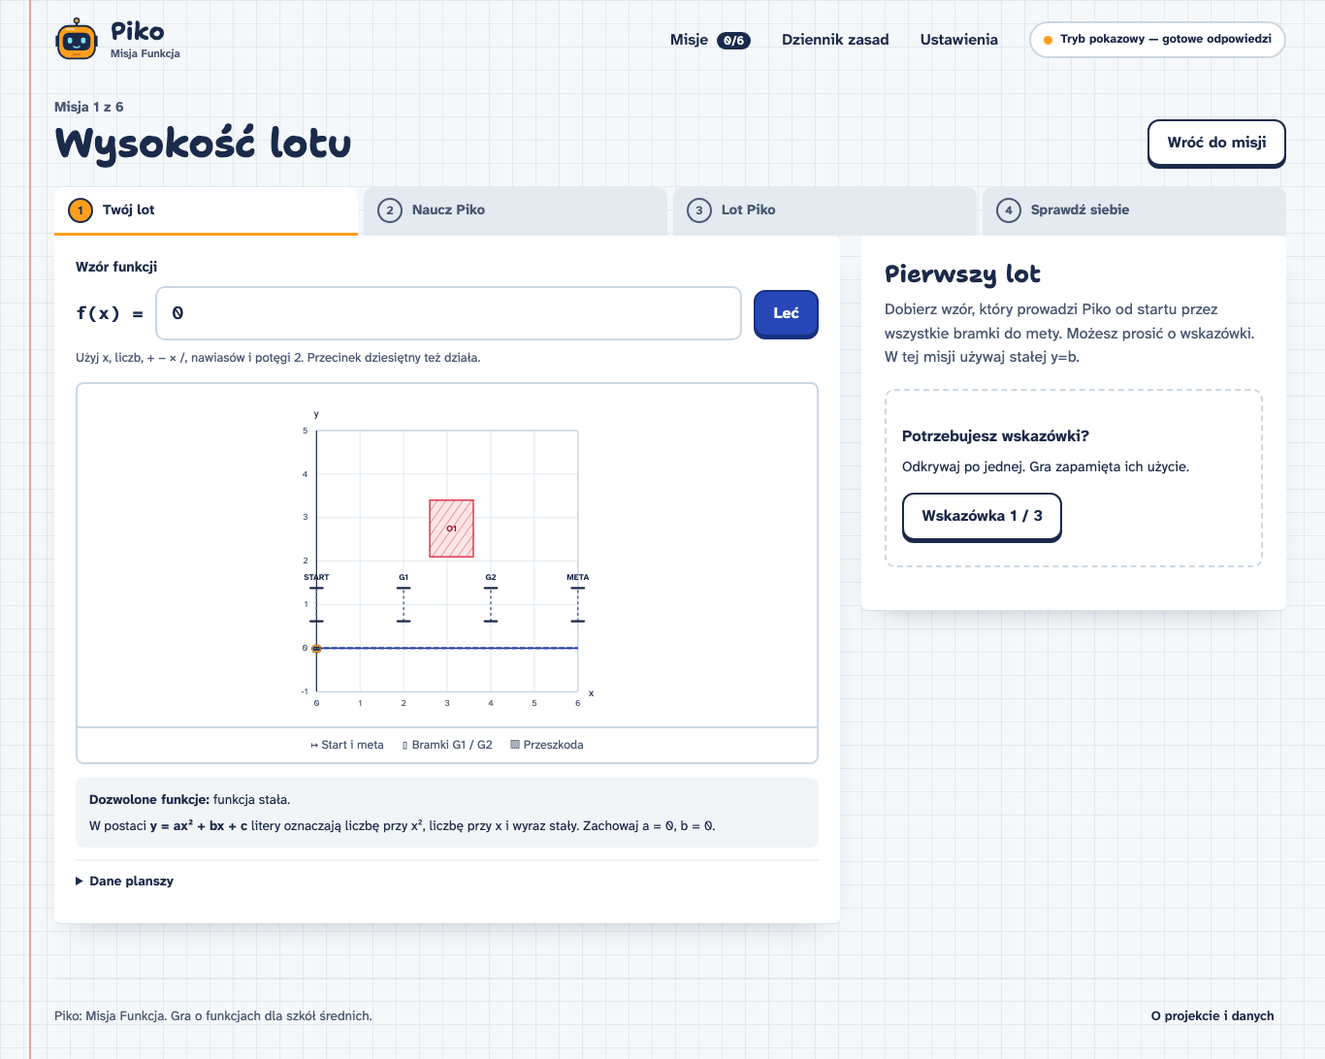
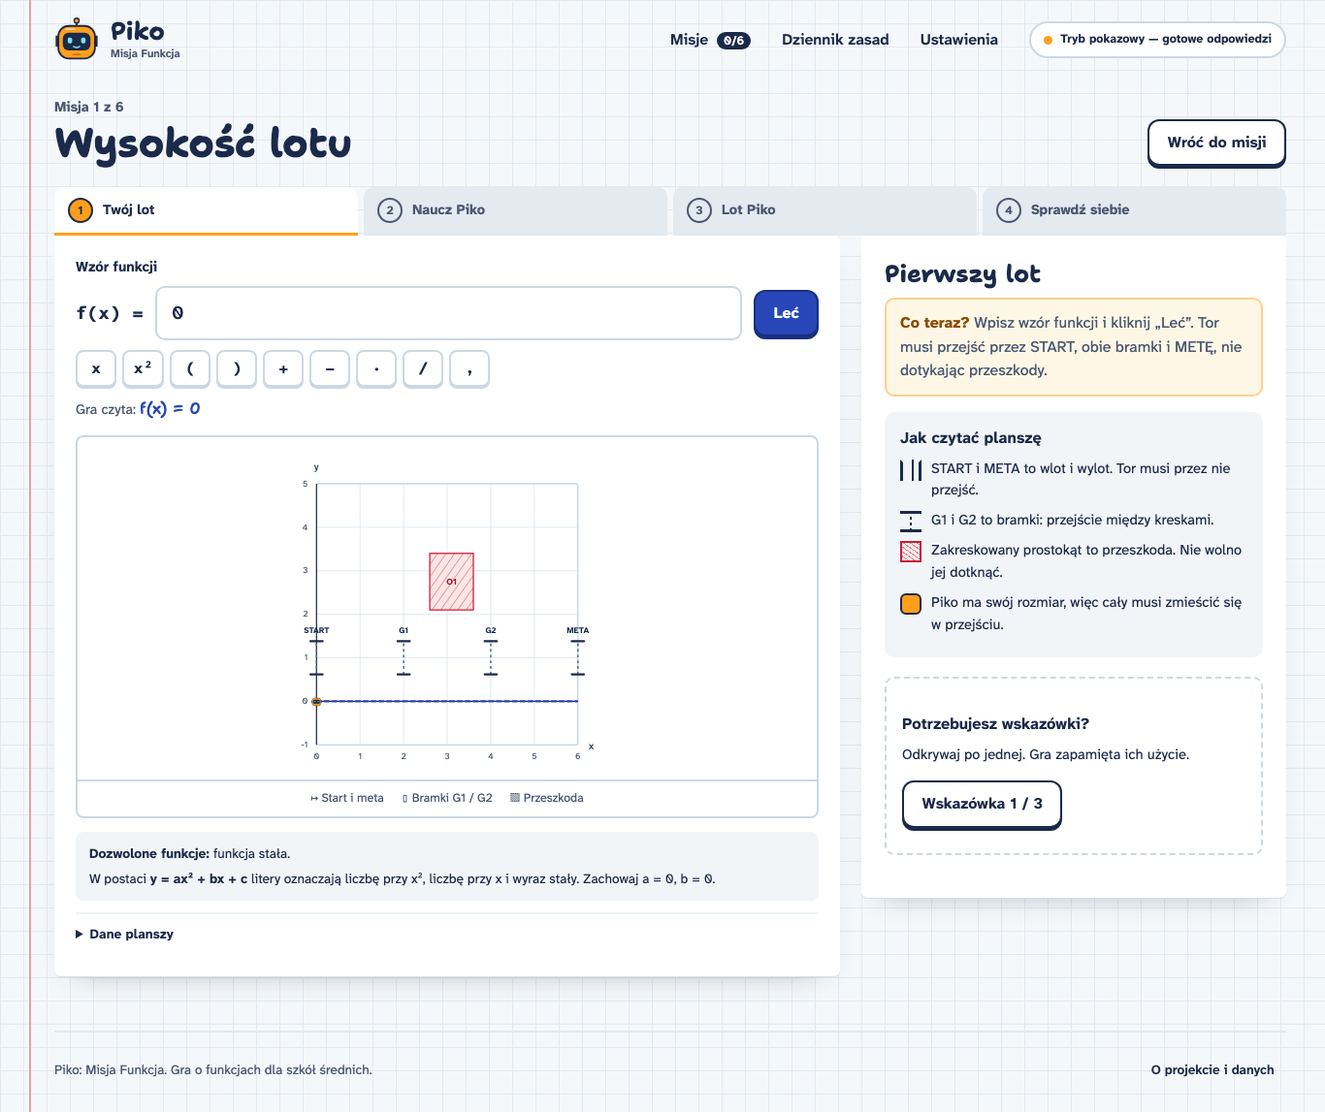
Guide the player step by step and simplify the lesson step
- 'Co teraz?' box computes the next action from game state
- checklist of tasks in 'Naucz Piko'; predictions sit next to 'Sprawdź naprawę'
- board legend for a first-time player in mission 1
- formula keys (x, x², brackets, operators) and a notebook-style preview
- explicit prompt to answer Piko's follow-up question
- unit tests for the guidance logic

diff --git a/apps/web/src/App.tsx b/apps/web/src/App.tsx
@@ -5,9 +5,11 @@ import type {LearnerRequest} from '@piko/contracts';
 import {Board} from './Board';
 import {Piko} from './Piko';
 import {HeroSheet,MissionSketch} from './Sketches';
+import {nextStep,prettyFormula,teachChecklist} from './guidance';
 import {canOpenPage,hasIndependentAttempt,rulesForAiTurn,visibleJournalRules} from './review';
 import {clearConversation,getStatus,sendTurn,setAccessCode,startSession} from './transport';
 import {backupSave,canAskRobot,hasCompleted,loadState,numericEvidence,persistState,reducer,removeSave,roles,roleLabels,type Attempt,type GameState,type LessonReply,type Run} from './state';
+const formulaKeys:[string,string][]=[['x','x'],['x²','x^2'],['(','('],[')',')'],['+','+'],['−','-'],['·','*'],['/','/'],[',',',']];
 const modeText={demo:'Tryb pokazowy — gotowe odpowiedzi',live:'Prawdziwe AI — Claude',unavailable:'AI niedostępne — brak odpowiedzi'};
 const familyName={constant:'funkcja stała',linear:'funkcja liniowa',quadratic:'funkcja kwadratowa'};
 const coefficientName={c2:'a',c1:'b',c0:'c'};
@@ -80,7 +82,7 @@ export function App(){
  const [s,dispatch]=useReducer(reducer,undefined,()=>loadState());
  const [saveError,setSaveError]=useState<string|null>(null),[systemReduced,setSystemReduced]=useState(false),[confirmReset,setConfirmReset]=useState(false);
  const [accessInput,setAccessInput]=useState(''),[accessFeedback,setAccessFeedback]=useState(''),[checkingAccess,setCheckingAccess]=useState(false);
- const heading=useRef<HTMLHeadingElement>(null),abort=useRef<AbortController|null>(null);
+ const heading=useRef<HTMLHeadingElement>(null),abort=useRef<AbortController|null>(null),exprRef=useRef<HTMLInputElement>(null);
  const m=missionById(s.missionId),r=s.runs[s.missionId],role=r.role,scene=m.scenes[role];
  const last=r.attempts[role]?.at(-1),blind=role==='human_check'&&!hasIndependentAttempt(s,m.id);
  const currentResult:EngineResult|null=last?.expression===r.drafts[role]?last.result:null;
@@ -90,6 +92,11 @@ export function App(){
  useEffect(()=>{heading.current?.focus();},[s.page,s.missionId,r.role]);
  useEffect(()=>{if(!s.busy)abort.current?.abort();},[s.viewRevision,s.busy]);
  useEffect(()=>{const handler=(e:KeyboardEvent)=>{if(e.key==='Escape'&&['journal','settings','about'].includes(s.page))dispatch({type:'OPEN',page:'game'});};window.addEventListener('keydown',handler);return()=>window.removeEventListener('keydown',handler);},[s.page]);
+ function insertIntoFormula(text:string){
+  const el=exprRef.current,value=r.drafts[role],start=el?.selectionStart??value.length,end=el?.selectionEnd??value.length;
+  dispatch({type:'EDIT',field:'expression',value:value.slice(0,start)+text+value.slice(end)});
+  requestAnimationFrame(()=>{el?.focus();el?.setSelectionRange(start+text.length,start+text.length);});
+ }
  async function askPiko(){
   if(s.busy||(abort.current&&!abort.current.signal.aborted)||(role==='teach'&&!r.explanation.trim())||(role==='robot_transfer'&&!canAskRobot(s,r)))return;
   if(role!=='teach'&&role!=='robot_transfer')return;
@@ -192,7 +199,11 @@ export function App(){
  </>}
  {s.page==='game'&&<><div className="mission-heading"><div><p className="mission-number">Misja {m.order} z 6</p><h1 ref={heading} tabIndex={-1}>{m.title}</h1></div><button className="secondary" onClick={()=>go('missions')}>Wróć do misji</button></div><ol className="phase-list">{roles.map((step,i)=><li key={step} aria-current={role===step?'step':undefined} className={role===step?'active':roles.indexOf(role)>i?'done':''}><span>{roles.indexOf(role)>i?'✓':i+1}</span>{roleLabels[step]}</li>)}</ol>
  <div className="game-grid"><section className="flight sheet" aria-label={roleLabels[role]}>
- {role!=='robot_transfer'&&<form className="expression-form" onSubmit={e=>{e.preventDefault();dispatch({type:'CHECK'});}}>{role==='teach'&&<h3>1. Popraw wzór Piko</h3>}<label htmlFor="expression">{role==='teach'?'Twój poprawiony wzór':'Wzór funkcji'}</label><div className="expression-row"><span>f(x) =</span><input id="expression" data-testid="expression" value={r.drafts[role]} maxLength={120} autoComplete="off" spellCheck={false} onChange={e=>dispatch({type:'EDIT',field:'expression',value:e.target.value})}/><button disabled={s.busy}>{role==='human_check'?'Sprawdź mój lot':role==='teach'?'Sprawdź naprawę':'Leć'}</button></div><p className="muted">Użyj x, liczb, + − × /, nawiasów i potęgi 2. Przecinek dziesiętny też działa.</p></form>}
+ {role!=='robot_transfer'&&<form className="expression-form" onSubmit={e=>{e.preventDefault();dispatch({type:'CHECK'});}}>{role==='teach'&&<h3>1. Popraw wzór Piko i przewidź wysokość</h3>}<label htmlFor="expression">{role==='teach'?'Twój poprawiony wzór':'Wzór funkcji'}</label><div className="expression-row"><span>f(x) =</span><input ref={exprRef} id="expression" data-testid="expression" value={r.drafts[role]} maxLength={120} autoComplete="off" spellCheck={false} onChange={e=>dispatch({type:'EDIT',field:'expression',value:e.target.value})}/><button disabled={s.busy}>{role==='human_check'?'Sprawdź mój lot':role==='teach'?'Sprawdź naprawę':'Leć'}</button></div><div className="formula-keys" role="group" aria-label="Wstaw do wzoru">{formulaKeys.map(([label,text])=><button type="button" key={label} className="key" aria-label={`Wstaw ${label}`} onClick={()=>insertIntoFormula(text)}>{label}</button>)}</div>
+ {r.drafts[role].trim()&&<p className="formula-preview">Gra czyta: <span>f(x) = {prettyFormula(r.drafts[role])}</span></p>}
+ {role==='teach'&&<div className="predictions">{scene.gates.map((g,i)=><label key={g.id} htmlFor={`prediction${i}`}>{g.id} (x = {g.x}): przewiduję y =<input id={`prediction${i}`} inputMode="decimal" value={r.predictions[i]} onChange={e=>dispatch({type:'EDIT',field:i===0?'prediction0':'prediction1',value:e.target.value})}/></label>)}</div>}
+ {role==='teach'&&r.repairChecked&&<p className={canRule||deriveRuleEvidence(m,r.drafts.teach,numericEvidence(s))?'notice ok':'notice'}>{r.numericFeedback}</p>}
+ </form>}
  <Board scene={scene} expression={role==='robot_transfer'?(r.robotChecked?r.robot?.learner?.proposedExpression??'':''):r.drafts[role]} showPath={!blind&&(role!=='robot_transfer'||r.robotChecked)} result={role==='robot_transfer'?r.robotChecked?r.attempts.robot_transfer?.at(-1)?.result??null:null:currentResult} flightId={last?.id} reduced={reduced} hitbox={s.settings.hitbox}/>
  <div className="constraints">
   <strong>Dozwolone funkcje:</strong> {scene.allowedFamilies.map(f=>familyName[f]).join(', ')}.
@@ -204,10 +215,18 @@ export function App(){
  </div>
  <div aria-live="polite" className="feedback">{s.error&&<p className="error" role="alert">! {s.error}</p>}{last&&!blind&&(role!=='robot_transfer'||r.robotChecked)&&<FlightResult attempt={last} robotStart={role==='robot_transfer'?scene.start:undefined}/>}{blind&&<p className="notice">Nowa plansza, teraz bez podpowiedzi. Tor zobaczysz po zatwierdzeniu wzoru. Błąd składni nie zużywa pierwszej próby.</p>}</div>
  <details className="board-data"><summary>Dane planszy</summary><p>Granice: x od {scene.domain.xMin} do {scene.domain.xMax}; y od {scene.domain.yMin} do {scene.domain.yMax}. Bok Piko: 0,24. Cały robot musi mieścić się w przejściu.</p><ul>{[{id:'Start',...scene.start},...scene.gates,{id:'Cel',...scene.goal}].map(g=><li key={g.id}>{g.id}: x={g.x}, dozwolone y od {g.yMin} do {g.yMax}</li>)}{scene.obstacles.map(o=><li key={o.id}>Przeszkoda {o.id}: x od {o.xMin} do {o.xMax}; y od {o.yMin} do {o.yMax}</li>)}</ul></details>
- </section><aside className="side sheet"><h2>{scene.title}</h2><p>{scene.instruction}</p>
+ </section><aside className="side sheet"><h2>{scene.title}</h2>
+ <p className="next-step" aria-live="polite"><strong>Co teraz? </strong>{nextStep(s,r)}</p>
+ {role==='teach'&&<ol className="checklist" aria-label="Zadania w tym kroku">{teachChecklist(s,r).map(item=><li key={item.label} className={item.done?'done':''}><span aria-hidden="true">{item.done?'✓':''}</span>{item.label}{item.done&&<span className="sr-only"> (zrobione)</span>}</li>)}</ol>}
+ {role==='practice'&&m.order===1&&!(r.attempts.practice??[]).some(a=>a.result.ok)&&<div className="legend-intro"><h3>Jak czytać planszę</h3><ul>
+  <li><b className="lg-portal" aria-hidden="true"/>START i META to wlot i wylot. Tor musi przez nie przejść.</li>
+  <li><b className="lg-gate" aria-hidden="true"/>G1 i G2 to bramki: przejście między kreskami.</li>
+  <li><b className="lg-obstacle" aria-hidden="true"/>Zakreskowany prostokąt to przeszkoda. Nie wolno jej dotknąć.</li>
+  <li><b className="lg-piko" aria-hidden="true"/>Piko ma swój rozmiar, więc cały musi zmieścić się w przejściu.</li>
+ </ul></div>}
  {role==='practice'&&<><div className="hint-box"><h3>Potrzebujesz wskazówki?</h3><p>Odkrywaj po jednej. Gra zapamięta ich użycie.</p>{hints.missions.find(h=>h.missionId===m.id)?.hints.slice(0,r.hintCount).map(h=><div key={h.level}><strong>{h.level}. {h.titlePL}</strong><p>{h.textPL}</p></div>)}{r.hintCount<3&&<button className="secondary" onClick={()=>dispatch({type:'HINT'})}>Wskazówka {r.hintCount+1} / 3</button>}</div>{last?.result.ok&&<button onClick={()=>dispatch({type:'NEXT'})}>Teraz naucz Piko</button>}</>}
- {role==='teach'&&<><div className="piko-says"><Piko/><div className="bubble"><small>Pomysł Piko (przygotowany)</small><p>{m.scriptedRobotUtterance}</p><code>f(x) = {scene.initialExpression}</code><button className="secondary" onClick={()=>dispatch({type:'CHECK_SCRIPT'})}>Sprawdź pomysł Piko</button></div></div><h3>2. Przewidź wartości w bramkach</h3><p className="muted">Po wpisaniu obu wartości kliknij „Sprawdź naprawę” obok wzoru.</p><div className="predictions">{scene.gates.map((g,i)=><label key={g.id} htmlFor={`prediction${i}`}>{g.id} (x = {g.x}): przewiduję y =<input id={`prediction${i}`} inputMode="decimal" value={r.predictions[i]} onChange={e=>dispatch({type:'EDIT',field:i===0?'prediction0':'prediction1',value:e.target.value})}/></label>)}</div><h3>3. Wyjaśnij zmianę Piko</h3><label htmlFor="explanation">Co Piko powinien zmienić i dlaczego?</label><textarea id="explanation" value={r.explanation} maxLength={600} rows={3} onChange={e=>dispatch({type:'EDIT',field:'explanation',value:e.target.value})}/><p className="muted">Wystarczy jedno lub dwa zdania. {r.explanation.length}/600</p>{s.mode==='live'&&<p className="privacy">Twoje wyjaśnienie trafi do AI. Nie wpisuj danych osobowych.</p>}<button className="secondary" disabled={s.busy||!r.explanation.trim()} onClick={()=>void askPiko()}>Powiedz Piko</button>{conversation}{!r.explanation.trim()&&<p className="muted">Najpierw wpisz własną próbę wyjaśnienia.</p>}{r.repairChecked&&<p className="notice">{r.numericFeedback}</p>}{canRule&&<div className="rule-card note-card">
-  <h3>4. Zapisz notatkę dla Piko</h3>
+ {role==='teach'&&<><div className="piko-says"><Piko/><div className="bubble"><small>Pomysł Piko (przygotowany)</small><p>{m.scriptedRobotUtterance}</p><code>f(x) = {scene.initialExpression}</code><button className="secondary" onClick={()=>dispatch({type:'CHECK_SCRIPT'})}>Sprawdź pomysł Piko</button></div></div><h3>2. Wyjaśnij Piko zasadę</h3><label htmlFor="explanation">Co Piko powinien zmienić i dlaczego?</label><textarea id="explanation" value={r.explanation} maxLength={600} rows={3} onChange={e=>dispatch({type:'EDIT',field:'explanation',value:e.target.value})}/><p className="muted">Wystarczy jedno lub dwa zdania. {r.explanation.length}/600</p>{s.mode==='live'&&<p className="privacy">Twoje wyjaśnienie trafi do AI. Nie wpisuj danych osobowych.</p>}<button className="secondary" disabled={s.busy||!r.explanation.trim()} onClick={()=>void askPiko()}>Powiedz Piko</button>{conversation}{!s.busy&&r.lessonReply?.assessment&&r.lessonReply.assessment!=='sound'&&<p className="notice">Uzupełnij wyjaśnienie w polu powyżej, odpowiadając na pytanie Piko, i kliknij „Powiedz Piko” jeszcze raz.</p>}{!r.explanation.trim()&&<p className="muted">Najpierw wpisz własną próbę wyjaśnienia.</p>}{canRule&&<div className="rule-card note-card">
+  <h3>3. Zapisz notatkę dla Piko</h3>
   <strong>Zasada sprawdzona przez grę</strong><p>{m.ruleText}</p>
   <LessonText explanation={r.explanation} paraphrase={r.lessonReply?.text??null} source={r.lessonReply?.source}/>
   <LessonAssessment reply={r.lessonReply}/>

diff --git a/apps/web/src/guidance.ts b/apps/web/src/guidance.ts
@@ -1,0 +1,63 @@
+import {deriveRuleEvidence} from '@piko/core';
+import {missionById} from '@piko/content';
+import {numericEvidence,type GameState,type Run} from './state';
+
+/** Jedno zdanie: co gracz ma zrobić teraz. Liczone ze stanu gry, bez AI. */
+export function nextStep(s:GameState,r:Run):string{
+ const m=missionById(s.missionId),last=r.attempts[r.role]?.at(-1);
+ switch(r.role){
+  case 'practice':
+   if(!last)return 'Wpisz wzór funkcji i kliknij „Leć”. Tor musi przejść przez START, obie bramki i METĘ, nie dotykając przeszkody.';
+   if(!last.result.ok)return r.hintCount<3
+    ?'Lot się nie udał. Zobacz na planszy, gdzie tor wypadł, popraw wzór albo odkryj wskazówkę.'
+    :'Lot się nie udał. Zobacz na planszy, gdzie tor wypadł, i popraw wzór.';
+   return 'Udało się! Kliknij „Teraz naucz Piko”.';
+  case 'teach':{
+   const sawIdea=(r.attempts.teach??[]).some(a=>a.source==='demo');
+   const evidence=r.repairChecked&&deriveRuleEvidence(m,r.drafts.teach,numericEvidence(s));
+   const repair=(r.attempts.teach??[]).filter(a=>a.source==='human').at(-1);
+   if(!sawIdea&&!r.repairChecked)return 'Piko ma błędny pomysł. Kliknij „Sprawdź pomysł Piko”, żeby zobaczyć, dlaczego nie działa.';
+   if(!r.repairChecked)return 'Popraw wzór Piko, wpisz, jaką wysokość przewidujesz w G1 i G2, i kliknij „Sprawdź naprawę”.';
+   if(repair&&!repair.result.ok)return 'Poprawiony wzór jeszcze nie prowadzi bezpiecznie. Popraw go i sprawdź ponownie.';
+   if(!evidence)return 'Tor jest dobry, ale prognoza się nie zgadza. Podstaw x bramki do wzoru i policz y jeszcze raz.';
+   if(s.busy)return 'Piko czyta Twoje wyjaśnienie…';
+   if(!r.lessonReply)return r.explanation.trim()
+    ?'Kliknij „Powiedz Piko”, żeby sprawdzić, jak zrozumie Twoje wyjaśnienie. Możesz też od razu zapisać notatkę.'
+    :'Wyjaśnij Piko własnymi słowami, co ma zmienić i dlaczego. Potem kliknij „Powiedz Piko”.';
+   if(r.lessonReply.assessment&&r.lessonReply.assessment!=='sound')return 'Piko czegoś jeszcze nie rozumie. Uzupełnij wyjaśnienie (odpowiedz na jego pytanie) i kliknij „Powiedz Piko” ponownie.';
+   return 'Piko zrozumiał. Zapisz notatkę, którą zabierze na nową trasę.';
+  }
+  case 'robot_transfer':
+   if(s.busy)return 'Piko analizuje nową trasę…';
+   if(!r.robot&&!r.unavailable)return 'Kliknij „Piko, spróbuj sam”. Piko użyje Twojej notatki na trasie, której nie widział.';
+   if(r.robot&&!r.robotChecked)return 'Przeczytaj wzór i uzasadnienie Piko. Zaznacz, czy Twoim zdaniem przeleci, i kliknij „Sprawdź lot Piko”.';
+   if(r.robotChecked&&last?.result.ok)return 'Piko przeleciał dzięki Twojej lekcji. Teraz Twoja kolej.';
+   if(r.robotChecked)return 'Piko się pomylił. Możesz dać mu jedną poprawkę albo przejść do własnej próby.';
+   return 'Możesz przejść do własnej próby.';
+  case 'human_check':
+   if(r.completed)return 'Gotowe! Kliknij „Zobacz podsumowanie”.';
+   if(!last)return 'Nowa trasa, tym razem bez podglądu toru i bez pomocy. Liczy się pierwsza próba, więc najpierw policz, potem kliknij.';
+   return 'Pierwsza próba jest zapisana. Popraw wzór i spróbuj jeszcze raz.';
+ }
+}
+
+/** Lista zadań w kroku „Naucz Piko”. */
+export function teachChecklist(s:GameState,r:Run){
+ const m=missionById(s.missionId);
+ const evidence=Boolean(r.repairChecked&&deriveRuleEvidence(m,r.drafts.teach,numericEvidence(s)));
+ return [
+  {label:'Zobacz błędny pomysł Piko',done:(r.attempts.teach??[]).some(a=>a.source==='demo')||evidence},
+  {label:'Popraw wzór i przewidź wysokość w G1 i G2',done:evidence},
+  {label:'Wyjaśnij Piko zasadę',done:Boolean(r.lessonReply)},
+  {label:'Zapisz notatkę dla Piko',done:false}
+ ];
+}
+
+/** Zapis wzoru tak, jak w zeszycie: przecinek dziesiętny, kwadrat, kropka mnożenia. */
+export function prettyFormula(expression:string){
+ return expression.trim()
+  .replace(/^(?:y\s*=|f\s*\(\s*x\s*\)\s*=)\s*/,'')
+  .replace(/\^2/g,'²').replace(/\^1/g,'').replace(/\*/g,'·')
+  .replace(/(\d)\.(\d)/g,'$1,$2')
+  .replace(/\s*([+])\s*/g,' + ').replace(/(?<=[\w)²])\s*-\s*/g,' − ');
+}

diff --git a/apps/web/src/style.css b/apps/web/src/style.css
@@ -309,3 +309,30 @@ footer { display: flex; justify-content: space-between; align-items: center; gap
   .header nav { gap: 0; justify-content: flex-start; }
   .header nav button { padding: .4em .55em; font-size: .9em; }
 }
+
+/* Prowadzenie gracza */
+.next-step { margin: 4px 0 16px; padding: 12px 14px; border-radius: 10px; background: #fff7e6; border: 2px solid #ffd08a; }
+.next-step strong { color: #8a4b00; }
+.checklist { list-style: none; margin: 0 0 18px; padding: 0; counter-reset: task; }
+.checklist li { position: relative; display: flex; align-items: center; gap: 10px; padding: 6px 0; color: var(--ink-soft); font-weight: 600; font-size: .92em; counter-increment: task; }
+.checklist li > span:first-child { display: grid; place-items: center; width: 24px; height: 24px; flex-shrink: 0; border: 2px solid var(--line); border-radius: 6px; background: var(--paper); color: #fff; font-size: .8em; }
+.checklist li.done { color: var(--green); }
+.checklist li.done > span:first-child { border-color: var(--green); background: var(--green); }
+.sr-only { position: absolute; width: 1px; height: 1px; overflow: hidden; clip: rect(0 0 0 0); white-space: nowrap; }
+.legend-intro { margin: 0 0 18px; padding: 14px 16px; border-radius: 10px; background: #f2f5f8; }
+.legend-intro h3 { margin: 0 0 8px; }
+.legend-intro ul { margin: 0; padding: 0; list-style: none; }
+.legend-intro li { display: flex; align-items: flex-start; gap: 10px; margin: 8px 0; font-size: .92em; }
+.legend-intro b { flex-shrink: 0; width: 22px; height: 22px; margin-top: 1px; }
+.lg-portal { border-left: 3px solid var(--ink); border-right: 3px solid var(--ink); border-top: 3px solid transparent; background: linear-gradient(90deg, transparent 9px, var(--ink) 9px, var(--ink) 11px, transparent 11px); }
+.lg-gate { background: linear-gradient(var(--ink), var(--ink)) top/100% 3px no-repeat, linear-gradient(var(--ink), var(--ink)) bottom/100% 3px no-repeat, repeating-linear-gradient(var(--ink) 0 3px, transparent 3px 6px) center/2px 100% no-repeat; }
+.lg-obstacle { border: 2px solid var(--red); background: repeating-linear-gradient(35deg, var(--red-tint) 0 3px, #e2828e 3px 4px); }
+.lg-piko { border-radius: 6px; background: var(--orange); border: 2px solid var(--ink); }
+.formula-keys { display: flex; flex-wrap: wrap; gap: 6px; margin-top: 10px; }
+.formula-keys .key { min-width: 42px; min-height: 38px; padding: .2em .6em; border-width: 2px; border-color: var(--line); border-radius: 8px; color: var(--ink); background: var(--paper); box-shadow: 0 2px 0 var(--line); font-family: var(--mono); font-weight: 700; }
+.formula-keys .key:hover { background: var(--blue-tint); }
+.formula-preview { margin: 10px 0 0; color: var(--ink-soft); font-size: .9em; }
+.formula-preview span { color: var(--blue); font-family: var(--hand); font-size: 1.15em; font-weight: 600; }
+.expression-form .predictions { margin-top: 14px; }
+.expression-form .notice { margin: 12px 0 0; }
+.notice.ok { border-left-color: var(--green); background: var(--green-tint); }

diff --git a/tests/guidance.test.ts b/tests/guidance.test.ts
@@ -1,0 +1,43 @@
+import {describe,it,expect} from 'vitest';
+import data from '../content/missions.v1.json';
+import {initialState,reducer,type GameState} from '../apps/web/src/state';
+import {nextStep,prettyFormula,teachChecklist} from '../apps/web/src/guidance';
+
+const run=(s:GameState)=>s.runs[s.missionId];
+const edit=(s:GameState,field:'expression'|'explanation'|'prediction0'|'prediction1',value:string)=>reducer(s,{type:'EDIT',field,value});
+
+describe('nextStep prowadzi gracza przez misję 1',()=>{
+ it('od pierwszego lotu do zapisu notatki',()=>{
+  const m=data.missions[0];
+  let s=reducer(initialState(),{type:'OPEN',page:'game'});
+  expect(nextStep(s,run(s))).toMatch(/kliknij „Leć”/);
+  s=edit(s,'expression','5');s=reducer(s,{type:'CHECK'});
+  expect(nextStep(s,run(s))).toMatch(/nie udał/);
+  s=edit(s,'expression',m.scenes.practice.witness.expression);s=reducer(s,{type:'CHECK'});
+  expect(nextStep(s,run(s))).toMatch(/Teraz naucz Piko/);
+  s=reducer(s,{type:'NEXT'});
+  expect(nextStep(s,run(s))).toMatch(/Sprawdź pomysł Piko/);
+  s=reducer(s,{type:'CHECK_SCRIPT'});
+  expect(nextStep(s,run(s))).toMatch(/Sprawdź naprawę/);
+  const w=m.scenes.teach.witness,[g1,g2]=m.scenes.teach.gates;
+  s=edit(s,'expression',w.expression);s=edit(s,'prediction0',String(w.c0+w.c1*g1.x));s=edit(s,'prediction1','99');s=reducer(s,{type:'CHECK'});
+  expect(nextStep(s,run(s))).toMatch(/prognoza się nie zgadza/);
+  s=edit(s,'prediction1',String(w.c0+w.c1*g2.x));s=reducer(s,{type:'CHECK'});
+  expect(nextStep(s,run(s))).toMatch(/Wyjaśnij Piko/);
+  expect(teachChecklist(s,run(s)).map(i=>i.done)).toEqual([true,true,false,false]);
+ });
+ it('samodzielna próba i ukończenie',()=>{
+  const s=initialState();const r=run(s);r.role='human_check';
+  expect(nextStep(s,r)).toMatch(/Liczy się pierwsza próba/);
+  r.completed=true;
+  expect(nextStep(s,r)).toMatch(/Zobacz podsumowanie/);
+ });
+});
+
+describe('prettyFormula',()=>{
+ it('zapisuje wzór jak w zeszycie',()=>{
+  expect(prettyFormula('0.25(x+1)^2')).toBe('0,25(x + 1)²');
+  expect(prettyFormula('y=2*x-3')).toBe('2·x − 3');
+  expect(prettyFormula('-x^2+1')).toBe('-x² + 1');
+ });
+});

diff --git a/docs/13-raport-weryfikacji.md b/docs/13-raport-weryfikacji.md
@@ -5,7 +5,7 @@ Piko: Misja Funkcja 1.0.0, stan na 22 listopada 2026. Środowisko: macOS arm64, 
 ## Testy automatyczne
 
 - Kontrola typów (TypeScript) i lint (ESLint): bez błędów.
-- 216 testów jednostkowych: parser wzorów, geometria i kolizje, zasady zaliczania, kontrakt AI, serwer (sesje, limity, kod dostępu), zapis i migracja postępu oraz oba adaptery AI (Claude i OpenAI) na atrapie HTTP, w tym odmowa, ucięta odpowiedź i błędy 400/404/429.
+- 219 testów jednostkowych: parser wzorów, geometria i kolizje, zasady zaliczania, kontrakt AI, serwer (sesje, limity, kod dostępu), zapis i migracja postępu oraz oba adaptery AI (Claude i OpenAI) na atrapie HTTP, w tym odmowa, ucięta odpowiedź i błędy 400/404/429.
 - 62 testy treści: 24 plansze mają sprawdzony poprawny tor, a 37 kontrolnych błędnych wzorów jest poprawnie odrzucanych. Niezależny walidator w Pythonie potwierdza to samo.
 - 17 testów całej gry w przeglądarce (Playwright): pełna kampania, ochrona pierwszej próby, opóźniona odpowiedź AI, pominięcie lotu Piko, czyszczenie rozmowy, awarie AI i powrót do trybu pokazowego, kod dostępu, animacja lotu. Zawierają automatyczne kontrole dostępności (axe, poziom A/AA) przy 1366×768, 1440×900 i 390×844.
 

diff --git a/docs/11-uruchomienie.md b/docs/11-uruchomienie.md
@@ -39,7 +39,7 @@ Dockerfile buduje obraz na Node 24. `deploy/jury/compose.yaml` dodaje Caddy (HTT
 ## Testy
 
 - `npm run typecheck`, `npm run lint`: kontrola typów i stylu.
-- `npm test`: 216 testów jednostkowych (silnik, kontrakt AI, serwer, zapis gry, oba adaptery AI na atrapie HTTP).
+- `npm test`: 219 testów jednostkowych (silnik, kontrakt AI, serwer, zapis gry, oba adaptery AI na atrapie HTTP).
 - `npm run test:content`, `python3 tools/validate_missions.py`: poprawność 24 plansz.
 - `npx playwright install chromium`, potem `npm run test:e2e`: 17 testów całej gry w przeglądarce.
 - `npm run test:ai:live -- --dry-run`: przygotowanie zestawu live bez wywołań API.

diff --git a/README.md b/README.md
@@ -59,7 +59,7 @@ Wersja produkcyjna: `npm run build`, a potem `npm start` (aplikacja i API na htt
 
 ```sh
 npm run typecheck && npm run lint
-npm test                     # 216 testów jednostkowych (silnik, kontrakt AI, serwer, zapis)
+npm test                     # 219 testów jednostkowych (silnik, kontrakt AI, serwer, zapis)
 npm run test:content         # 62 testy treści misji
 npx playwright install chromium
 npm run test:e2e             # 17 testów całej gry w przeglądarce
